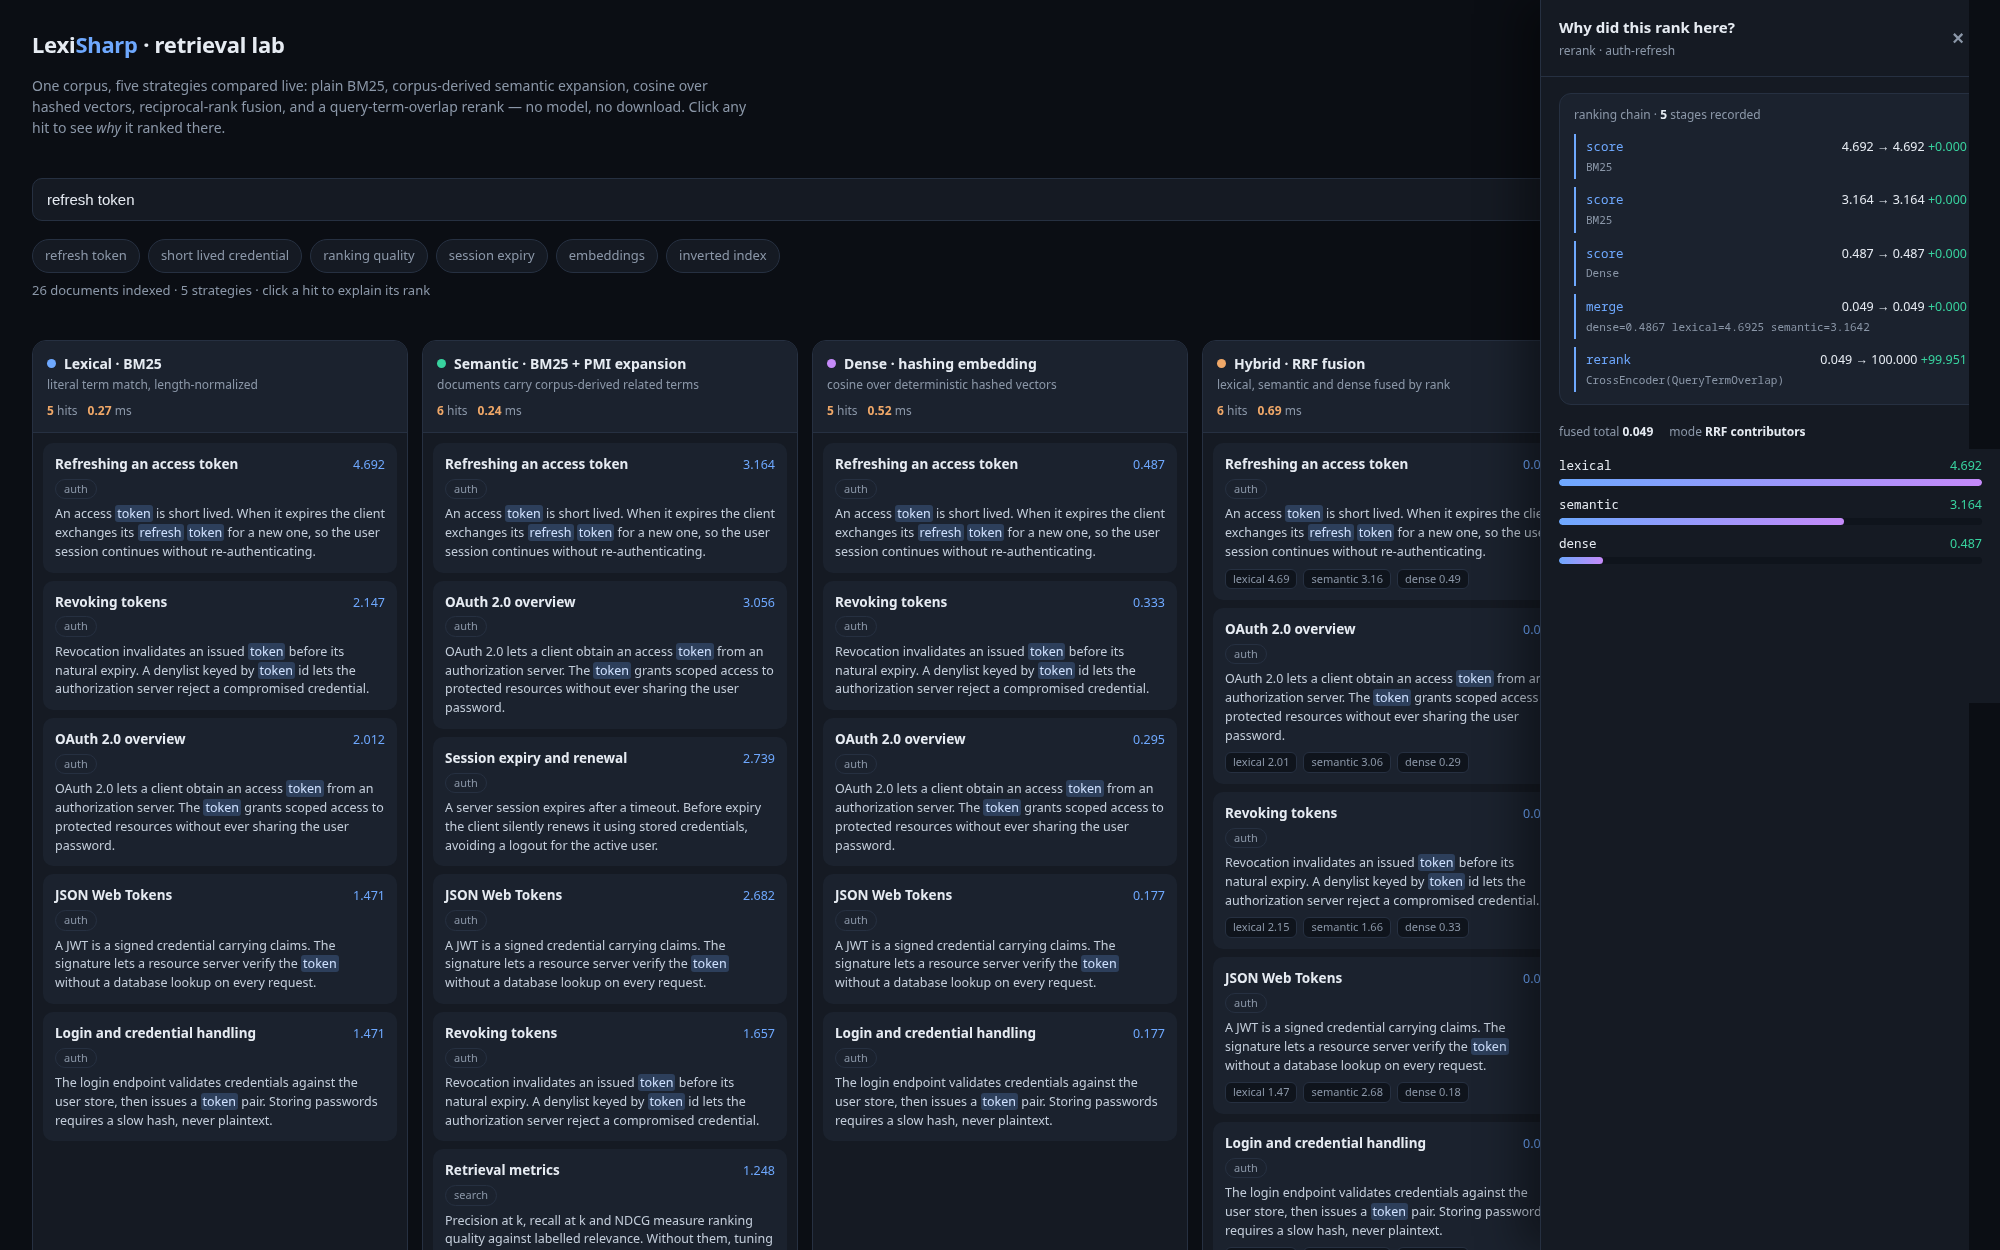
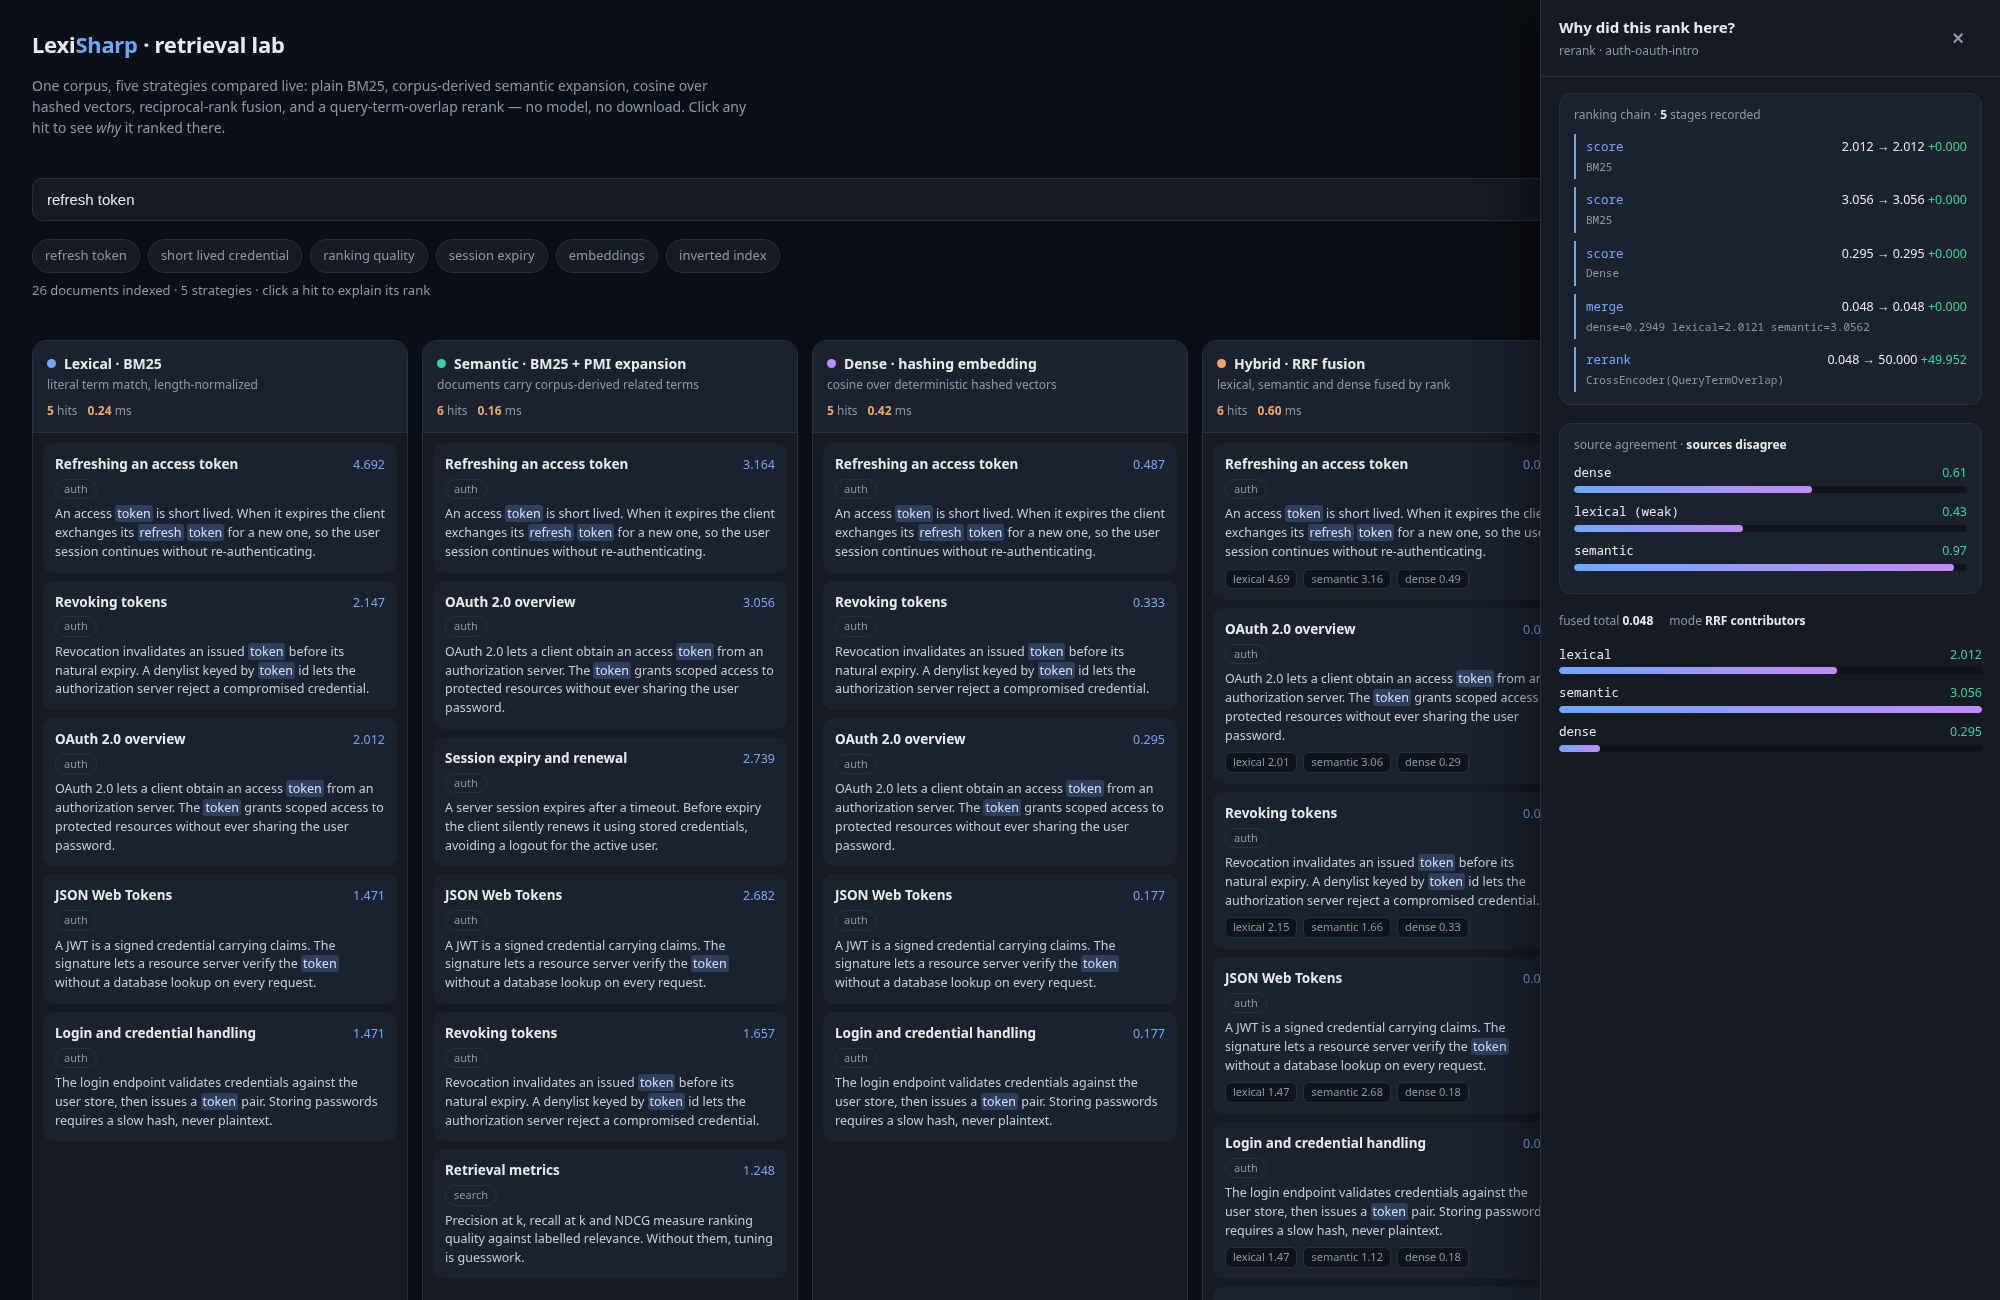
docs(demo): fix the agreement panel and re-shoot the explain screenshot
The panel rendered "source agreement · [object Object]". The API nests the
AgreementDto under "agreement", so data.agreement is the object and my lookup
table was being indexed by it. Fixed in the demo, not by flattening the API:
the nested DTO is the right shape, and the panel is where the mistake was.

Re-shot the explain screenshot, which had been showing the chain only. It now
shows one document end to end: the two BM25 lanes, the dense lane, the RRF merge
with its per-source scores, the cross-encoder's verdict, and immediately below it
the agreement reading - semantic 0.97 and dense 0.61 convinced, lexical 0.43 and
marked weak. That pairing is the argument in one image: the document is in the
page, the lexical lane is not the reason, and the score column alone would never
have said so. The +49.952 from the reranker sitting next to the merge's 0.048
makes the scale change visible too, which is exactly what the trace is for.

Two renames of the agreement tests come along here: Divergent -> Disputed and
Broad -> Unanimous, left over from the taxonomy change and only renamed in the
source since.

The throwaway page that auto-clicks a hit to open the panel is not committed.

diff --git a/samples/LexiSharp.Demo/wwwroot/index.html b/samples/LexiSharp.Demo/wwwroot/index.html
@@ -275,26 +275,27 @@ function chainExplanation(data) {
 }
 
 function agreementExplanation(data) {
-  if (!data.agreement) return "";
+  const agreement = data.agreement;
+  if (!agreement) return "";
   const label = {
     singleSource: "one source only",
-    disputed: "sources disagree",
     lukewarm: "nobody is convinced",
+    disputed: "sources disagree",
     unanimous: "every source agrees",
     none: "no source returned it",
-  }[data.agreement] || data.agreement;
+  }[agreement.agreement] || agreement.agreement;
 
-  const bars = Object.entries(data.strengths || {}).map(([source, value]) => {
+  const bars = Object.entries(agreement.strengths || {}).map(([source, value]) => {
     const width = Math.max(2, value * 100);
-    const strong = (data.strongSources || []).includes(source);
+    const strong = (agreement.strongSources || []).includes(source);
     return `<div class="term">
       <div class="term-top"><span class="term-name">${esc(source)}${strong ? "" : " (weak)"}</span><span class="term-val">${fmt(value, 2)}</span></div>
       <div class="track"><div class="fill" style="width:${width}%"></div></div>
     </div>`;
   }).join("");
 
-  const absent = (data.absentSources || []).length
-    ? `<div class="stage-sub">not returned by ${data.absentSources.map(esc).join(", ")}</div>`
+  const absent = (agreement.absentSources || []).length
+    ? `<div class="stage-sub">not returned by ${agreement.absentSources.map(esc).join(", ")}</div>`
     : "";
 
   return `<div class="chain">

diff --git a/tests/LexiSharp.Tests/RetrievalAgreementTests.cs b/tests/LexiSharp.Tests/RetrievalAgreementTests.cs
@@ -27,7 +27,7 @@ public class RetrievalAgreementTests
     }
 
     [Fact]
-    public void SeveralSourcesThatAllFindItConvincingIsBroad()
+    public void SeveralSourcesThatAllFindItConvincingIsUnanimous()
     {
         var page = new[]
         {
@@ -41,7 +41,7 @@ public class RetrievalAgreementTests
     }
 
     [Fact]
-    public void SourcesThatDisagreeAreDivergentNotBroad()
+    public void SourcesThatDisagreeAreDisputedNotUnanimous()
     {
         // d1 is the dense lane's favourite and only a middling lexical hit; d2 is the reverse.
         // Both are in the page, but neither is found convincing by everyone.
@@ -78,7 +78,7 @@ public class RetrievalAgreementTests
         Assert.Equal(0.1, report.Strengths["bm25"], 10);
         Assert.Equal(1.0, report.Strengths["cosine"], 10);
 
-        // One source is enthusiastic, the other is not: that is Divergent, not Broad, and it is the
+        // One source is enthusiastic, the other is not: that is Disputed, not Unanimous, and it is the
         // distinction a raw-score comparison would have collapsed.
         Assert.Equal(RetrievalAgreement.Disputed, report.Agreement);
         Assert.Equal(["cosine"], report.StrongSources);
@@ -154,7 +154,7 @@ public class RetrievalAgreementTests
     {
         var report = Assert.Single(RetrievalAgreementAnalyzer.Analyze([Result("d1", 0.5, ("lexical", 1.0))]));
 
-        // One source present, so SingleSource - not Broad, even though its only source is strong.
+        // One source present, so SingleSource - not Unanimous, even though its only source is strong.
         Assert.Equal(RetrievalAgreement.SingleSource, report.Agreement);
     }
 
